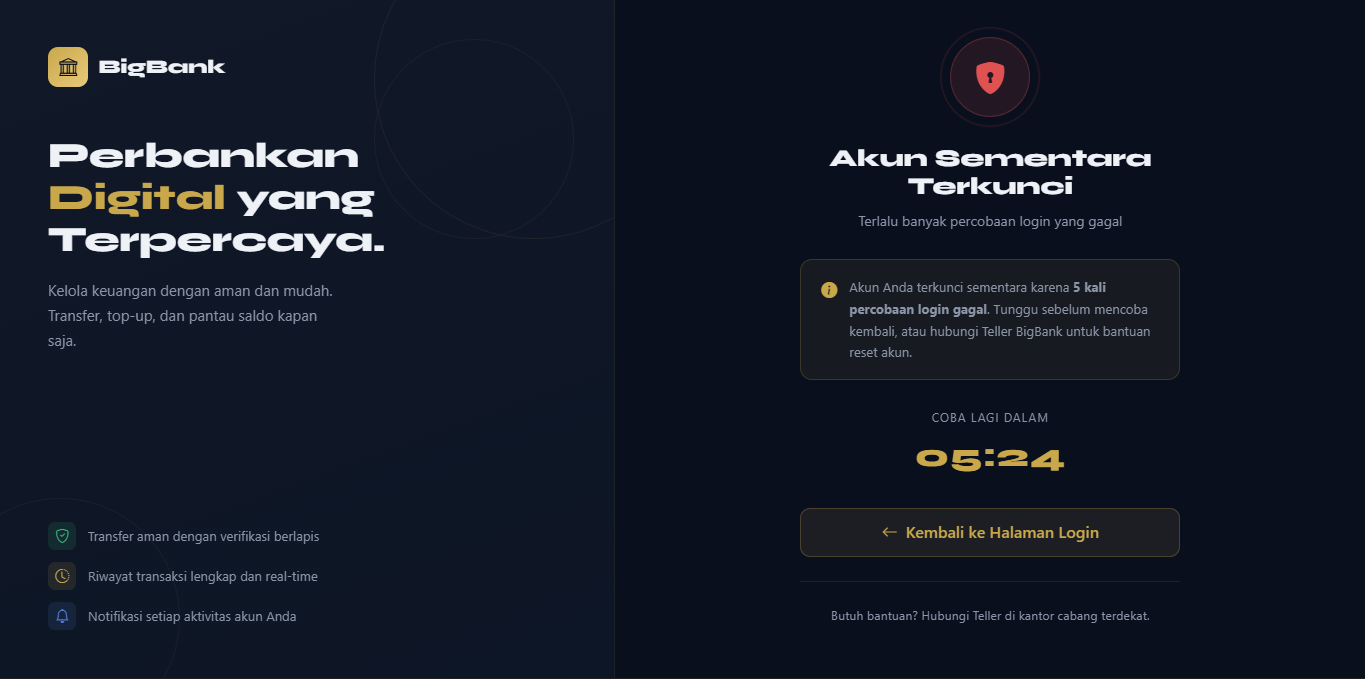
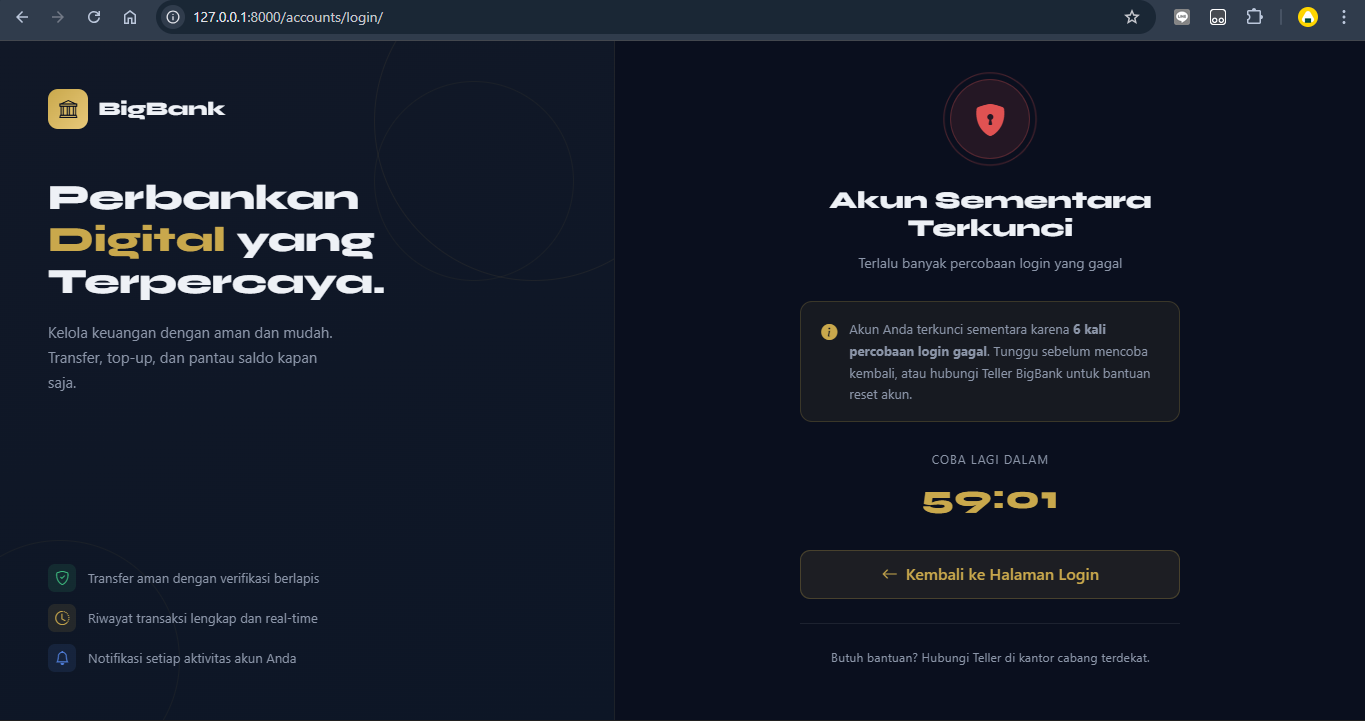
update broken auth section on readme

diff --git a/README.md b/README.md
@@ -118,36 +118,94 @@ Transaksi.objects.create(..., keterangan=keterangan)
 
 ### 3.2 Broken Authentication Mitigation
 
-**Vulnerability yang Dimitigasi:** CWE-287 (Improper Authentication), CWE-307 (Brute Force), CWE-522 (Insufficiently Protected Credentials), CWE-384 (Session Fixation)
+**Vulnerability yang Dimitigasi:** : CWE-256 (Plaintext Storage of Password), CWE-307 (Brute Force), CWE-613 (Insufficient Session Expiration), CWE-306 (Missing Authentication for Critical Function), CWE-204 (Observable Response Discrepancy)
 
-**Penjelasan:** Autentikasi yang lemah memungkinkan penyerang menebak password (brute force), mencuri session, atau mengakses fitur yang bukan haknya.
+**Penjelasan:** Autentikasi yang lemah memungkinkan penyerang menebak password (brute force), mencuri/menyalahgunakan session, mengakses endpoint tanpa login, atau melakukan enumerasi akun melalui pesan error yang berbeda.
 
 **Kode Vulnerable:**
 ```python
-# Password plaintext, tidak ada rate limit
+# Password disimpan plaintext, tidak ada rate limit, tidak ada session management
 def login(request):
     user = User.objects.get(username=request.POST['username'])
     if user.password == request.POST['password']:   # plaintext!
-        request.session['user_id'] = user.id
+        request.session['user_id'] = user.id        # session fixation
+
+# Tidak ada proteksi endpoint — siapa saja bisa akses
+def halaman_admin(request):
+    return render(request, 'admin.html')
 ```
 
 **Kode Secure:**
 ```python
-from django.contrib.auth import authenticate, login
+# accounts/forms.py — Pesan error ambigu mencegah enumerasi akun (CWE-204)
+class LoginForm(AuthenticationForm):
+    username = forms.CharField(
+        validators=[validate_safe_input],
+        widget=forms.TextInput(attrs={'class': 'form-control', 'placeholder': 'Username'})
+    )
+    error_messages = {
+        'invalid_login': 'Username atau password yang Anda masukkan salah.',
+        'inactive': 'Akun ini tidak aktif.',
+    }
 
-def login_view(request):
-    form = LoginForm(request, data=request.POST)
-    if form.is_valid():
-        user = form.get_user()   # django-axes catat gagal login otomatis
-        login(request, user)     # password PBKDF2, session aman
+# accounts/views.py — @never_cache + @csrf_protect, session dibuat ulang saat login
+@csrf_protect
+@never_cache
+def halaman_login(request):
+    if request.user.is_authenticated:
+        return redirect('accounts:dashboard')
+    form = LoginForm(request, data=request.POST or None)
+    if request.method == 'POST' and _proses_login(request, form):
+        return redirect('accounts:dashboard')
+    return render(request, 'accounts/login.html', {'form': form})
+
+# accounts/views.py — Proteksi endpoint dengan @login_required + @khusus_supervisor
+@login_required
+@khusus_supervisor
+def halaman_kelola_pengguna(request):
+    ...
+
+# accounts/views.py — Dashboard dispatch berdasarkan role (least privilege)
+_PETA_RENDERER = {
+    'nasabah':    _render_dasbor_nasabah,
+    'teller':     _render_dasbor_teller,
+    'supervisor': _render_dasbor_supervisor,
+}
+
+@never_cache
+@login_required
+def halaman_beranda(request):
+    peran = request.user.role
+    renderer = _PETA_RENDERER.get(peran)
+    if renderer is None:
+        return redirect('accounts:login')
+    return renderer(request)
+
+# settings.py — Konfigurasi session dan django-axes
+SESSION_COOKIE_HTTPONLY = True
+SESSION_COOKIE_AGE = 1800                  # 30 menit
+SESSION_EXPIRE_AT_BROWSER_CLOSE = True
+
+AXES_FAILURE_LIMIT = 6                     # lockout setelah 5 gagal (ke-6 trigger)
+AXES_COOLOFF_TIME = 1                      # cooloff 1 jam
+AXES_LOCKOUT_TEMPLATE = 'accounts/lockout.html'
+
+AUTHENTICATION_BACKENDS = [
+    'axes.backends.AxesStandaloneBackend',
+    'django.contrib.auth.backends.ModelBackend',
+]
 ```
 
 **Teknik Mitigasi:**
-- Password hashing PBKDF2 via `AbstractUser` — tidak pernah simpan plaintext
-- `SESSION_COOKIE_HTTPONLY=True`, `SESSION_COOKIE_AGE=1800`, `SESSION_EXPIRE_AT_BROWSER_CLOSE=True`
-- `django-axes`: lockout setelah 5x gagal login, cooloff 1 jam
-- Decorator `@nasabah_only`, `@teller_only`, `@supervisor_only` — least privilege enforcement
-
+| Ancaman | Teknik Mitigasi |
+|---------|----------------|
+| Password plaintext | `AbstractUser` menggunakan PBKDF2-SHA256 secara otomatis via `set_password()` — tidak pernah simpan plaintext |
+| Brute force | `django-axes`: lockout setelah >5 kali gagal, cooloff 1 jam | 
+| Session fixation | `login()` Django otomatis rotate session ID setiap autentikasi berhasil |
+| Session tidak kadaluarsa | `SESSION_COOKIE_AGE=1800`, `SESSION_EXPIRE_AT_BROWSER_CLOSE=True`, `@never_cache` pada dashboard & login |
+| Akses tanpa autentikasi | `@login_required` pada semua view terproteksi; redirect ke `/accounts/login/` jika belum login | 
+| Enumerasi akun | Pesan error identik untuk username salah maupun password salah pada `LoginForm.error_messages` |
+| Least privilege | Decorator `@khusus_supervisor` + dispatch via `_PETA_RENDERER` — setiap role hanya dapat mengakses endpoint yang sesuai |
 ---
 
 ### 3.3 CSRF Protection
@@ -242,9 +300,11 @@ def cari_rekening(nomor):
 |-----|----------|----------|--------|--------| ---------- |
 | TC-01 | Input `<script>alert('XSS')</script>` di field keterangan transfer | Error validasi, tidak tersimpan | *(isi)* | PASS/FAIL |
 | TC-02 | Input `<b>bold</b>` di field nama | Tampil sebagai teks biasa | *(isi)* | PASS/FAIL |
-| TC-03 | Login salah 5x berturut-turut | Halaman lockout muncul | Halaman lockout muncul dengan pesan "Akun Sementara Terkunci, coba lagi dalam 1 jam" | PASS | ![alt text](screenshots/image.png) |
-| TC-04 | Cek kolom password di Django Admin | Hash `pbkdf2_sha256$...` | Kolom password menampilkan pbkdf2_sha256$600000$<salt>$<hash>, bukan plaintext | PASS | ![alt text](screenshots/image2.png) |
-| TC-05 | Logout → tekan Back browser | Redirect ke login | Browser redirect ke halaman login, tidak bisa kembali ke dashboard | PASS | ![alt text](screenshots/image3.png) | 
+| TC-BA-01 | Password Hashing Verification | Kolom password menampilkan hash `pbkdf2_sha256$...` — bukan plaintext | Kolom password menampilkan `pbkdf2_sha256$600000$<salt>$<hash>`, bukan plaintext | PASS | ![TC-BA-01](screenshots/image2.png) |
+| TC-BA-02 | Brute Force / Rate Limiting | Sistem menampilkan pesan "Akun dikunci sementara" / rate limit aktif; login tidak dapat dilanjutkan | Halaman lockout muncul dengan pesan "Akun Sementara Terkunci, coba lagi dalam 1 jam" | PASS | ![TC-BA-02](screenshots/image.png) |
+| TC-BA-03 | Session Token Invalidation setelah Logout | Server merespons dengan redirect ke halaman login (HTTP 302) atau HTTP 401; TIDAK ada akses ke halaman terproteksi | Browser redirect ke halaman login, tidak bisa kembali ke dashboard dengan session lama | PASS | ![TC-BA-03](screenshots/image3.png) |
+| TC-BA-04 | Akses Halaman Terproteksi Tanpa Login | Redirect ke halaman login; TIDAK ada konten halaman yang terproteksi yang ditampilkan |  Aplikasi melakukan redirect ke `/accounts/login/` dan menampilkan halaman login | PASS | ![TC-BA-03](screenshots/image4.png) |
+| TC-BA-05 | Informasi Error yang Tidak Informatif | Kedua skenario menampilkan pesan yang SAMA — tidak membedakan "username tidak ditemukan" vs "password salah" |  Kedua skenario menampilkan pesan `"Username atau password yang Anda masukkan salah."` | PASS | ![TC-BA-05](screenshots/image5.png)|
 | TC-06 | View Page Source form transfer | `csrfmiddlewaretoken` ada di HTML | *(isi)* | PASS/FAIL |
 | TC-07 | CSRF attack dari file HTML eksternal | 403 Forbidden | *(isi)* | PASS/FAIL |
 | TC-08 | Input `' OR '1'='1` di field username | Pesan error login | *(isi)* | PASS/FAIL |
